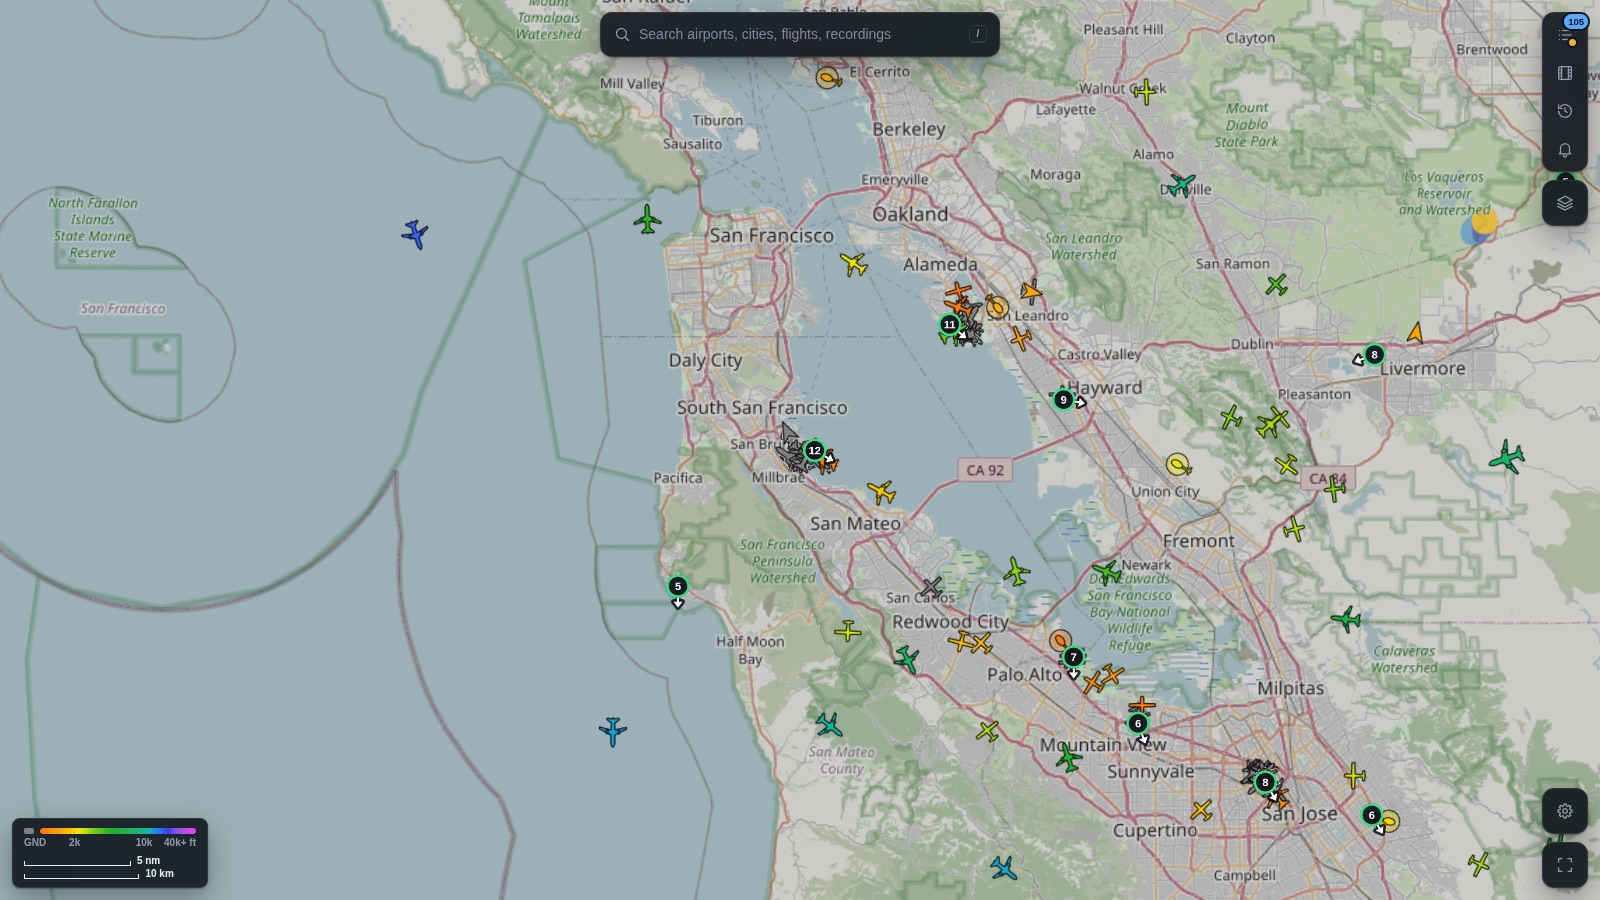
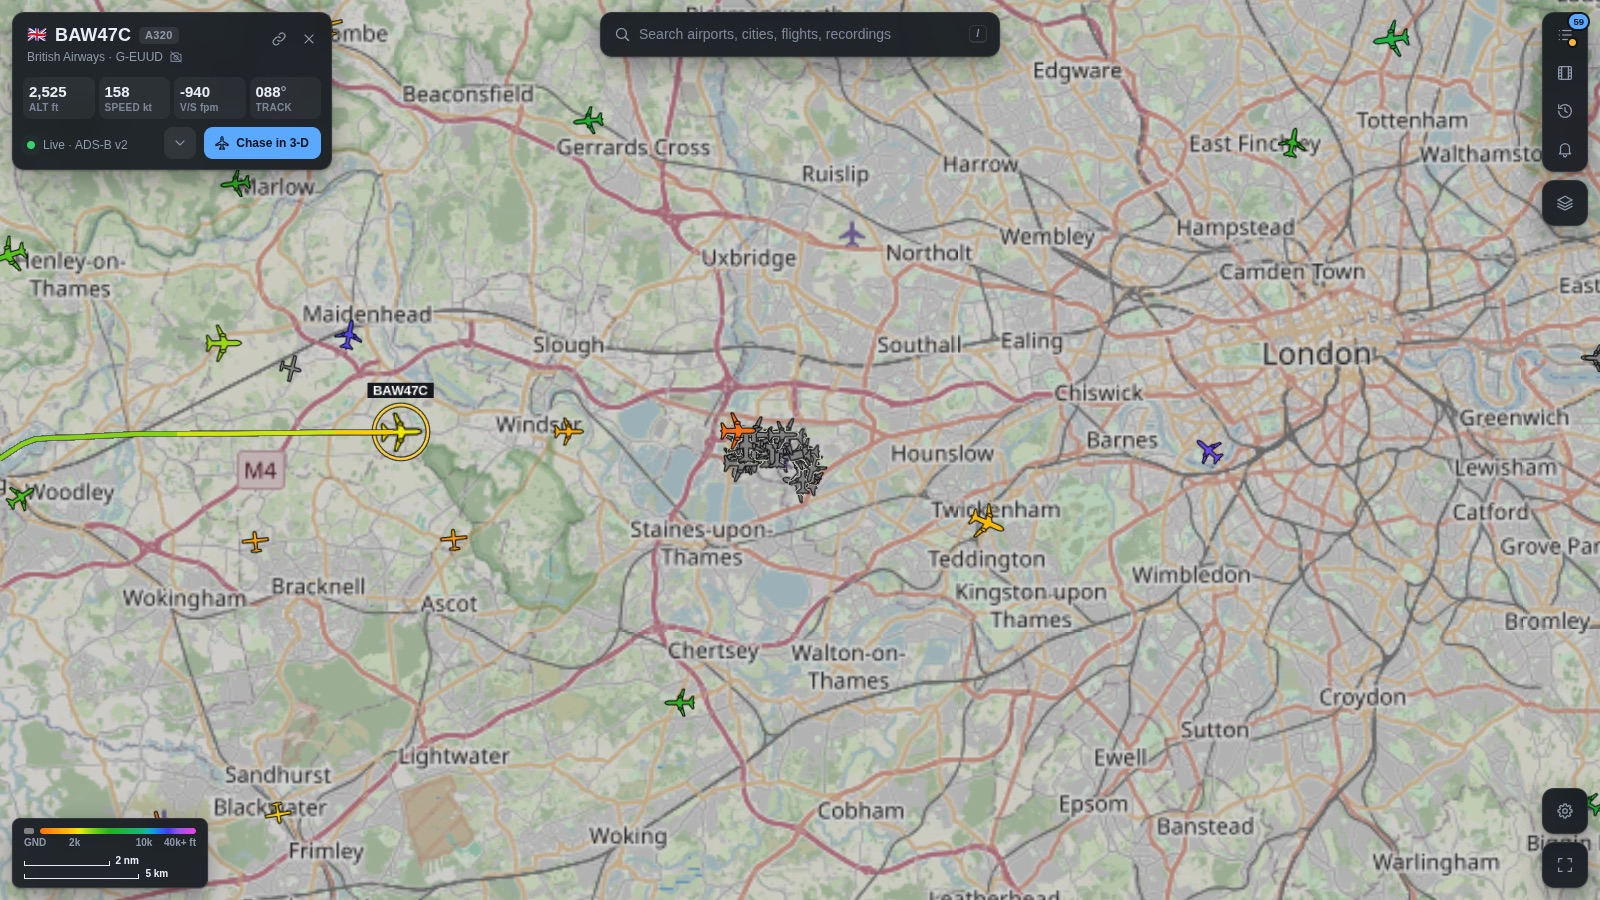
docs: a gallery at the top of the README (a close-up, on final, terrain, sunset, night, weather, the map), the MIT licence, and what it does not cover; the QA scripts take their own folder, ports and recording (QA_DIR, QA_API, QA_FE, QA_CDP, REPLAY) and a Vite cache of their own, so two sessions do 

diff --git a/README.md b/README.md
@@ -2,7 +2,26 @@
 
 Live air traffic on a 3-D globe. Pick an aircraft and fly behind it over real terrain, down to the runway.
 
-![An A320 over the hills east of San Francisco Bay, with the flight instruments round it](docs/images/chase.jpg)
+![A Lufthansa A320neo over the English countryside, on its way into Heathrow](docs/images/hero.jpg)
+
+<table>
+<tr>
+<td width="50%"><img src="docs/images/final.jpg" alt="A British Airways A320neo on short final to Heathrow, with the flight instruments round it"><br><sub>On final: flight instruments, 3-D buildings, the traffic ahead</sub></td>
+<td width="50%"><img src="docs/images/terrain.jpg" alt="An A320 over the hills east of San Francisco Bay"><br><sub>Real terrain under every flight</sub></td>
+</tr>
+<tr>
+<td><img src="docs/images/sunset.jpg" alt="An Iberia A350 with its gear down against the setting sun"><br><sub>The sun and moon where they are at that hour</sub></td>
+<td><img src="docs/images/night.jpg" alt="A British Airways A320 at night, cabin windows lit, street lights below"><br><sub>Night: cabin and navigation lights, street lights below</sub></td>
+</tr>
+<tr>
+<td><img src="docs/images/weather.jpg" alt="Clouds round an A320, and a strip that shows the weather ahead"><br><sub>Weather round the aircraft, and what lies ahead</sub></td>
+<td><img src="docs/images/map.jpg" alt="The map west of London: aircraft coloured by altitude, one selected with its flown path"><br><sub>The live map: every aircraft in view, the selected one's path</sub></td>
+</tr>
+</table>
+
+<sub>Screenshots of the app replaying recorded traffic at Heathrow and San Francisco. The sunset and night views set
+the time of day with `?sun=`, the weather view shows the demo sky (`?wxdemo=1`), and the close-ups hide the instrument
+cards with the layout button.</sub>
 
 A personal, non-commercial project. **Entertainment only: not for navigation, ATC or any operational decision.**
 
@@ -20,10 +39,6 @@ A personal, non-commercial project. **Entertainment only: not for navigation, AT
 - **Scenarios.** Reconstructed flights played back with a timeline and captions from the official record.
 - **Alerts.** Emergency squawks worldwide and steep descents, with optional push to a phone.
 - **Phone and TV.** A phone layout, and a kiosk mode driven by a TV remote ([tv/](tv/README.md)).
-
-| The live map | A night approach |
-|---|---|
-| ![Aircraft over the San Francisco Bay area on the map](docs/images/map.jpg) | ![An El Al 737 at night with its instruments](docs/images/night.jpg) |
 
 ## Quick start
 
@@ -138,6 +153,16 @@ No framework: TypeScript run by Node directly, Vite for the client, `node --test
 
 Each source has its own terms: see [docs/data-sources.md](docs/data-sources.md). Read them before you use
 FlightHopper for anything but personal use.
+
+## Licence
+
+The code is under the [MIT licence](LICENSE). That does not cover what the repository bundles from others:
+
+- **Aircraft models** in `public/models/`: GPL-2.0 or GPL-3.0, from FlightGear aircraft. Their licences and source are
+  in [third_party/aircraft-models](third_party/aircraft-models/README.md).
+- **Fonts** in `public/fonts/`: SIL Open Font License, each with its licence file beside it.
+- **Airline names and marks** on the liveries belong to their owners.
+- **Data fetched while the app runs**: each source's own terms, listed above.
 
 ## Questions and bugs
 
